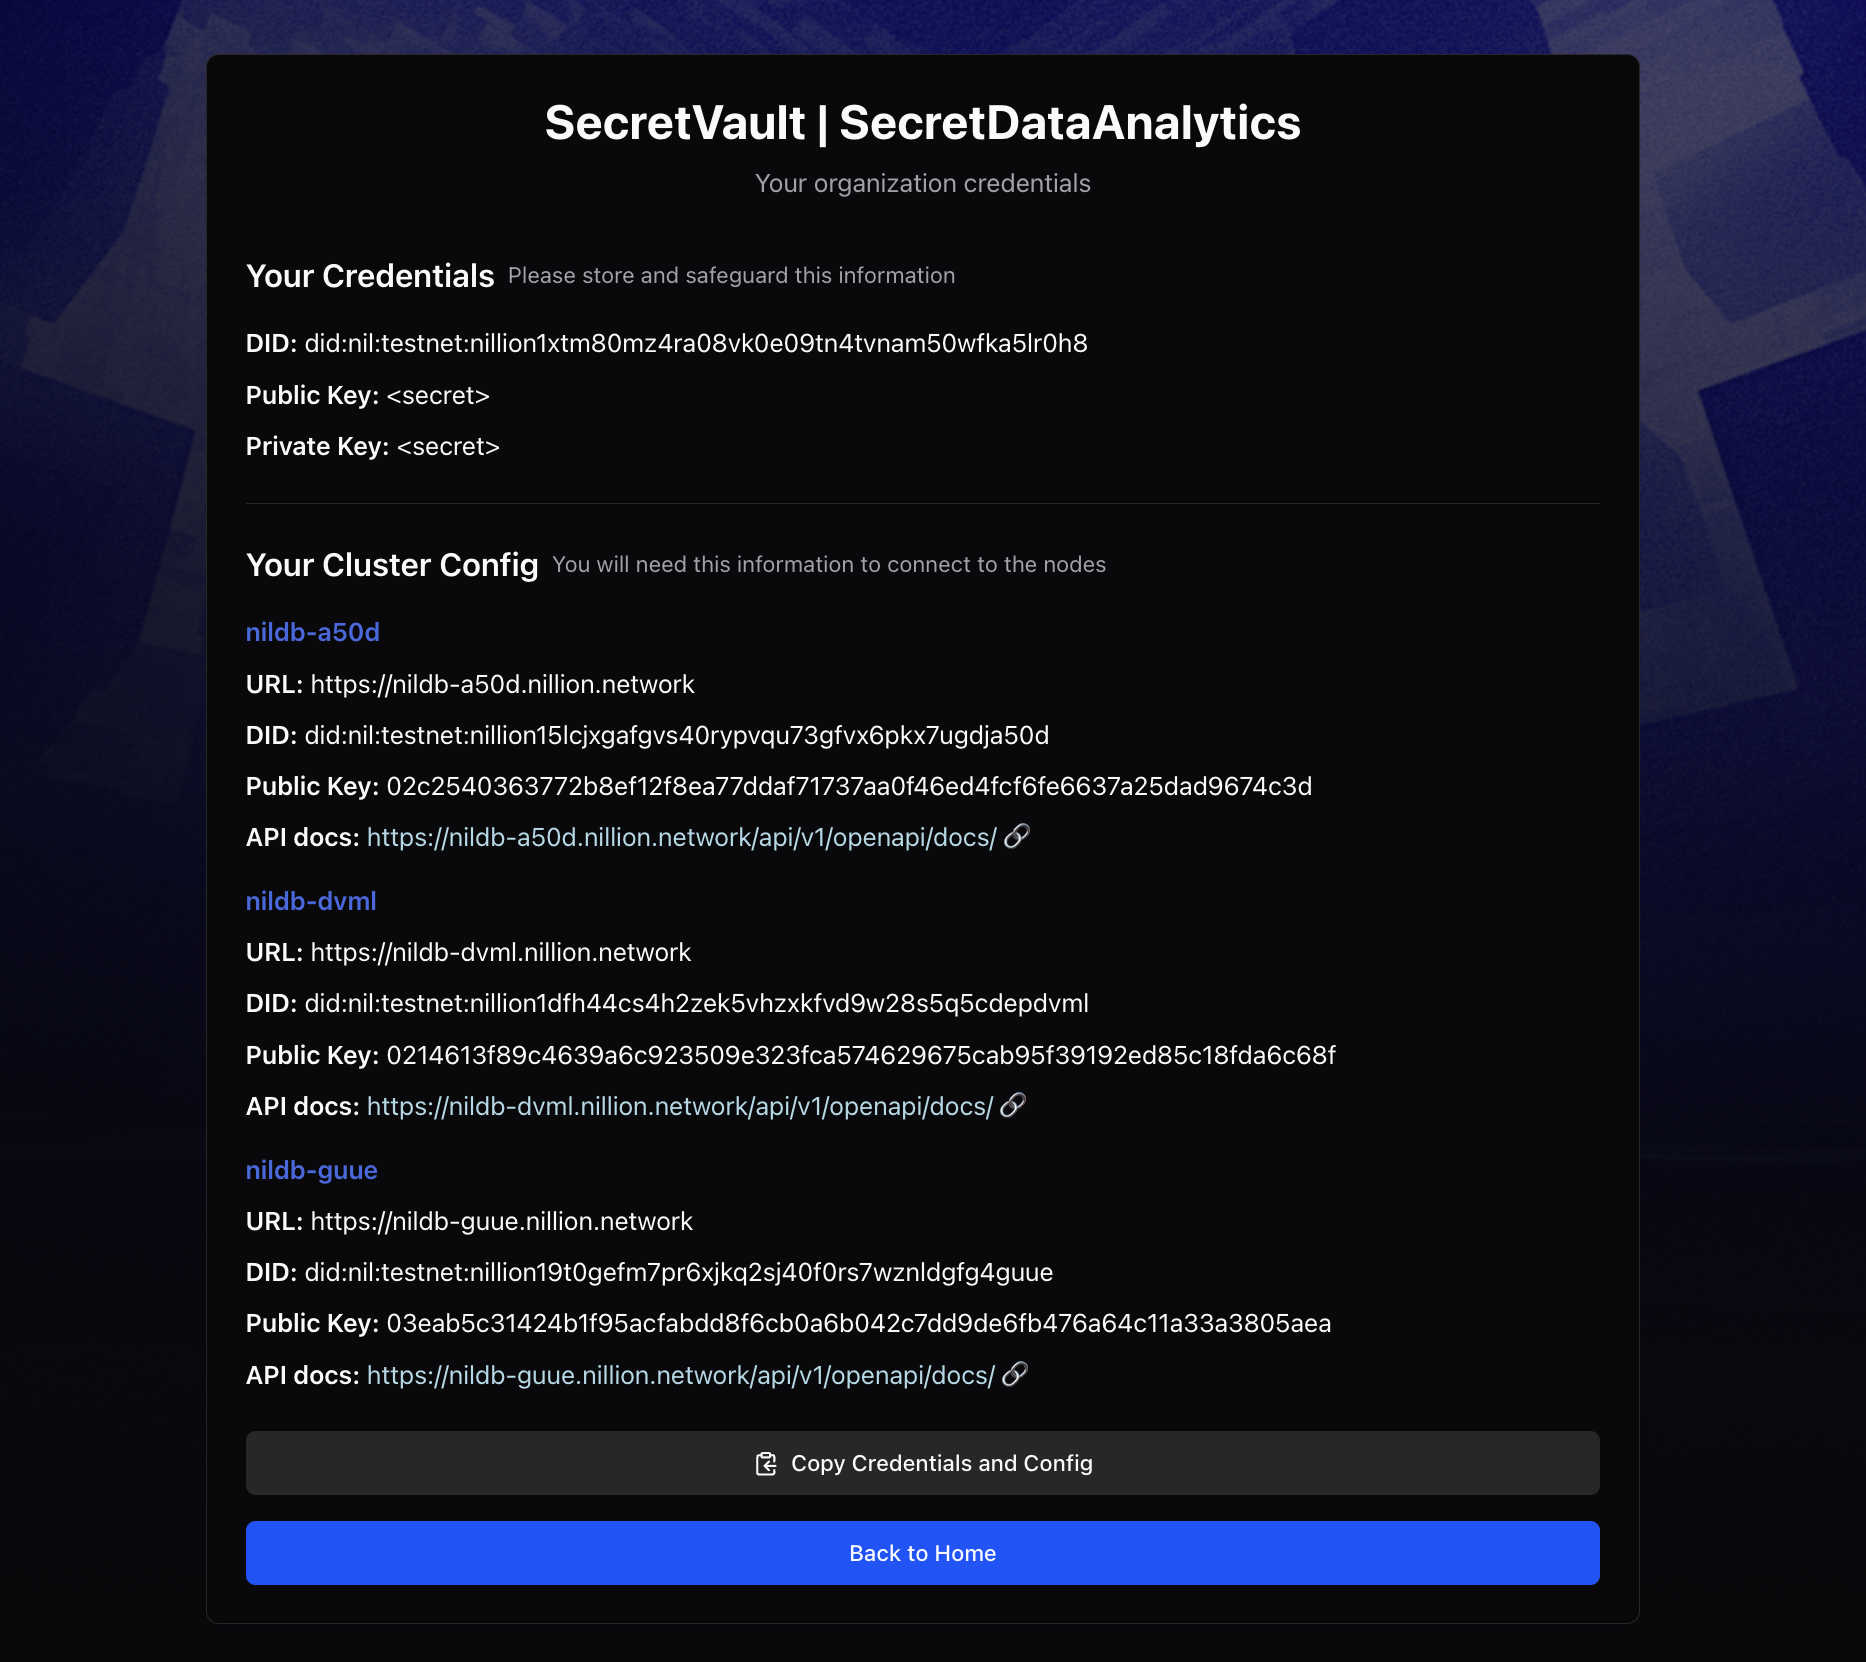
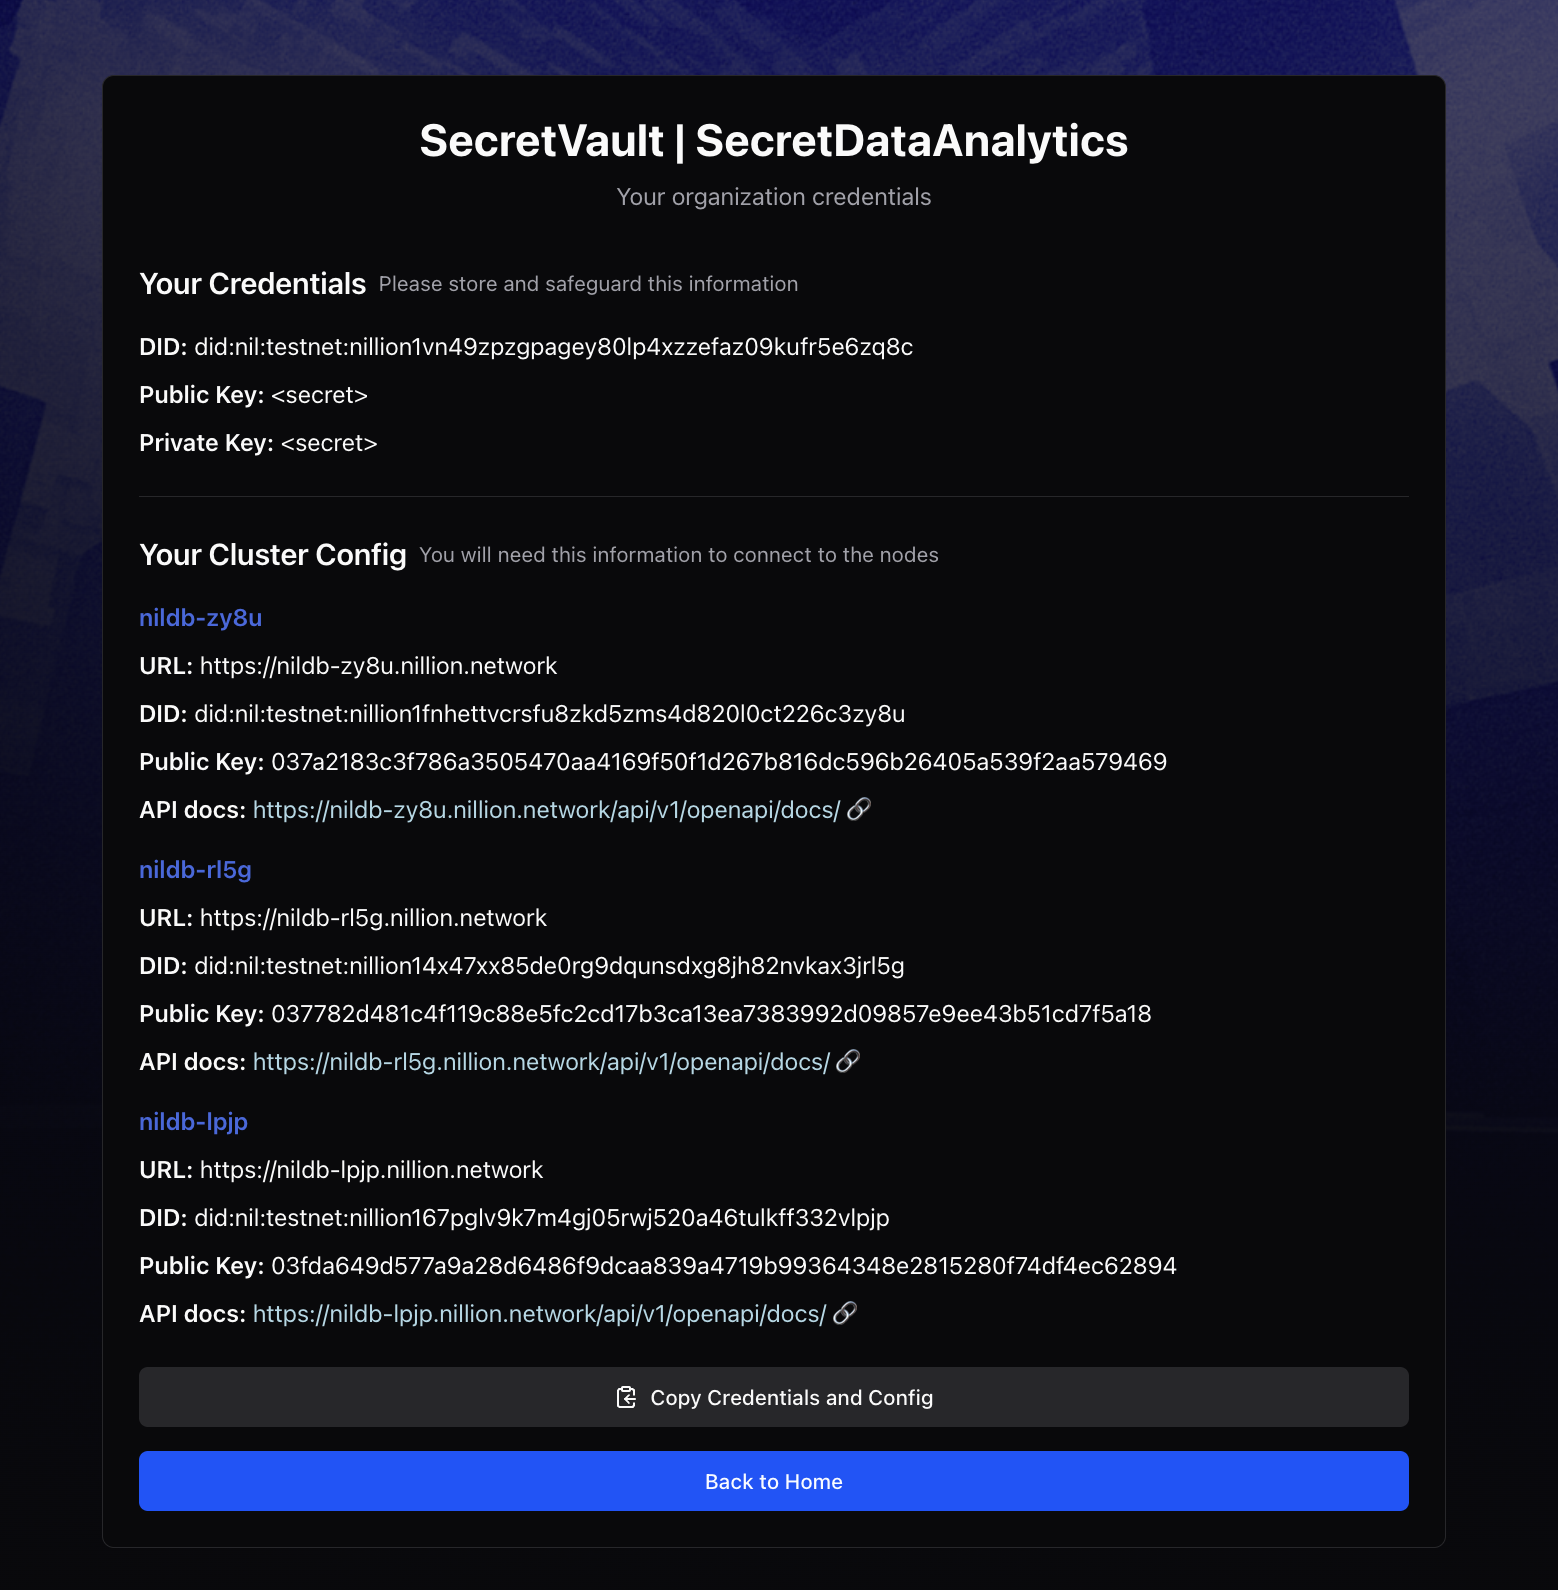
add quickstart

Changed region(s): [[0.0, 0.0, 1.0, 0.8321], [0.0616, 0.8629, 0.9243, 0.9553]]

diff --git a/docs/build/secret-vault-quickstart.md b/docs/build/secret-vault-quickstart.md
@@ -1,55 +1,81 @@
 # SecretVault Quickstart
 
-This guide helps you create a Node.js project that reads and writes data to a data collection in SecretVault. We'll build a web3 experience survey system where respondents' years of experience (the years_in_web3 field) is kept private through encryption, while other survey responses (question ratings) remain unencrypted in plaintext.
+In this 15-minute guide, you'll build a privacy-preserving Web3 experience survey using Node.js and SecretVault. The project will encrypt personal data (name and years_in_web3) while keeping survey ratings in plaintext.
+
+![Web3 Experience Survey](/img/survey.png)
 
 :::info
-While this guide uses JavaScript (Node.js) and the [nillion-sv-wrappers](https://github.com/NillionNetwork/nillion-sv-wrappers) package for simplicity, you can integrate SecretVault into any language by [using the nilDB APIs directly](/build/secret-vault#how-to-use-secretvault).
+This guide uses JavaScript (Node.js) and the [nillion-sv-wrappers](https://github.com/NillionNetwork/nillion-sv-wrappers) package for simplicity, but SecretVault can be integrated with any language [using the nilDB APIs directly](/build/secret-vault#how-to-use-secretvault).
 :::
+
+## Project Overview
+
+This quickstart will guide you through:
+
+1. Setting up a Node.js project from scratch and installing [nillion-sv-wrappers](https://github.com/NillionNetwork/nillion-sv-wrappers)
+2. Configuring SecretVault org access
+3. Creating a SecretVault Collection by uploading a schema
+4. Writing and reading encrypted survey data to the collection
+
+Your final project structure will be below. For a complete working version, check out the finished project in this [GitHub repo](https://github.com/oceans404/nillion-sv-example)
+
+```
+sv-quickstart/
+├── node_modules
+├── package-lock.json
+├── package.json          # Project dependencies
+├── nillionOrgConfig.js   # Nillion org credentials and node URLs
+├── postSchema.js         # Script for uploading a schema to create a collection
+└── index.js              # Main script that reads and writes to SecretVault
+```
 
 ### Prerequisites
 
 - Node.js (v18 or higher recommended)
 - npm (comes with Node.js)
 
-## Create Node.js Project
+## Build your project
 
-#### 1. Create and enter project directory for your SecretVault Quickstart
+### 1. Set up Node.js Project
 
-```
+#### Create and enter the project directory:
+
+```bash
 mkdir sv-quickstart
 cd sv-quickstart
 ```
 
-#### 2. Initialize npm project with type "module" and install dependencies:
+#### Initialize npm project with type "module" and install dependencies:
 
-- [nillion-sv-wrappers](https://github.com/NillionNetwork/nillion-sv-wrappers) is a JavaScript npm package with wrappers for simplifying usage of Nillion's Secret Vault and the nilQL encryption and decryption library.
-
-- uuid is used to generate unique ids for each record uploaded to SecretVault.
-
-```
+```bash
 npm init es6
 npm i nillion-sv-wrappers uuid
 ```
 
-## Setup SecretVault Config
+:::info
 
-#### 1. Create a Nillion organization configuration file
+- [nillion-sv-wrappers](https://github.com/NillionNetwork/nillion-sv-wrappers) is a JavaScript npm package with wrappers for simplifying usage of Nillion's Secret Vault and the nilQL encryption and decryption library.
 
-```
+- uuid is used to generate unique ids for each record uploaded to SecretVault.
+  :::
+
+### 2. Set your SecretVault Organization Config
+
+#### Create a Nillion organization configuration file
+
+```bash
 touch nillionOrgConfig.js
 ```
 
-#### 2. Fill in the organization configuration file
+#### Add the demo organization configuration:
 
-Normally we would [Register an Organization](/build/secretVault-secretDataAnalytics/access) to get org credentials and cluster configuration.
-
-For quickstart purposes, copy the this demo organization's credentials and cluster configuration including node urls and node did (decentralized identifiers) into your `nillionOrgConfig.js` file:
+For quickstart purposes, we've pre-registered an org you can use. Here are the organization's credentials and cluster configuration including node urls and node did (decentralized identifiers) to paste into your `nillionOrgConfig.js` file:
 
 <details>
 
-<summary>Copy this Demo Organization Config into nillionOrgConfig.js</summary>
+<summary>**Copy this Demo Organization Config into nillionOrgConfig.js**</summary>
 
-You can also look up cluster configuration values using the orgDid in the "Returning Org" section of the [SecretVault Organization Portal](https://secret-vault-registration.replit.app/).
+You can also look up cluster configuration values using the orgDid in the "Returning Org" section of the [SecretVault Registration Portal](https://sv-sda-registration.replit.app/).
 
 ```python reference showGithubLink
 https://github.com/oceans404/nillion-sv-example/blob/main/nillionOrgConfig.js
@@ -62,27 +88,24 @@ Now we have all the organization and cluster details needed to use SecretVault:
 - Organization Credentials: private key and did
 - Cluster configuration: Node API urls and Node DIDs for each node in the cluster
 
-## Check out the Collection's Schema
+### 3. Create Collection Schema
 
-For this quickstart, we'll read and write data to a pre-defined collection with a "Web3 Experience Survey" schema in the demo org. (To create your own schema later, see the [Define a Collection](/build/secretVault-secretDataAnalytics/create-schema) guide.)
+#### Create a schema.json file:
 
-The schemaId for the "Web3 Experience Survey" Schema is
-
-```
-53f9e1de-e0a3-46ab-86c6-3fd380ad8877
+```bash
+touch schema.json
 ```
 
-Note that this schema id is specific to the organization: `did:nil:testnet:nillion1xtm80mz4ra08vk0e09tn4tvnam50wfka5lr0h8` and can't be used by other organizations.
+Add the "Web3 Experience Survey" schema within schema.json. The schema definition specifies the data structure of any record uploaded to the collection:
 
-Key points about this schema:
-
-- Every survey response requires a unique UUID
-- years_in_web3 is defined as a string because it will store encrypted data shares
-- responses array holds unencrypted survey ratings, with each rating being 1-5
+- Every survey response requires a unique `_id`
+- `name` is an encrypted field that stores data shares
+- `years_in_web3` is also encrypted and follows the same structure
+- `responses` array holds unencrypted survey ratings, with each rating being 1-5
 
 <details>
 
-<summary>Check out the Schema: Web3 Experience Survey</summary>
+<summary>**Copy this Web3 Experience Survey schema into schema.json:**</summary>
 
 ```js reference showGithubLink
 https://github.com/oceans404/nillion-sv-example/blob/main/schema.json
@@ -90,7 +113,31 @@ https://github.com/oceans404/nillion-sv-example/blob/main/schema.json
 
 </details>
 
-## Write Main Script for Writing to SecretVault
+#### Create the upload schema script:
+
+```bash
+touch postSchema.js
+```
+
+<details>
+
+<summary>**Copy this script that creates your collection schema into postSchema.js:**</summary>
+
+```js reference showGithubLink
+https://github.com/oceans404/nillion-sv-example/blob/main/postSchema.js
+```
+
+</details>
+
+#### Run the upload schema script to create a schema collection:
+
+```bash
+node postSchema.js
+```
+
+Save the Schema ID from the output - you'll need it for writing and reading data to your collection in the next step.
+
+### 4. Interact with SecretVault Data
 
 #### 1. Create a main script file
 
@@ -103,9 +150,11 @@ touch index.js
 ```
 sv-quickstart/
 ├── node_modules
-├── package.json          # Project dependencies and config
-├── nillionOrgConfig.js   # Nillion credentials and node URLs
-└── index.js              # Main script
+├── package-lock.json
+├── package.json
+├── nillionOrgConfig.js
+├── postSchema.js
+└── index.js
 ```
 </details>
 
@@ -117,50 +166,38 @@ import { v4 as uuidv4 } from 'uuid';
 import { orgConfig } from './nillionOrgConfig.js';
 ```
 
-#### 3. Add the Collection Configuration
+#### 3. Add your Collection's Schema ID
 
-This specifies the schema id for the schema and the names of any fields that need to be encrypted by nilQL ahead of being stored in SecretVault.
-
-```
-// Collection Configuration
-const collectionConfig = {
-  schemaId: '53f9e1de-e0a3-46ab-86c6-3fd380ad8877',
-  encryptedFields: ['years_in_web3'],
-};
+```javascript
+const SCHEMA_ID = 'YOUR_SCHEMA_ID';
 ```
 
-#### 3. Create a payload of Web3 Experience Survey to store
+#### 4. Create a payload of 1 or more Web3 Experience Survey data records to store
 
-```
-// Web3 Experience Survey Data
+Mark the name and years_in_web3 fields with `$allot` to signal to nilQL that these are fields that need to be encrypted to shares before being stored in SecretVault. The nillion-sv-wrappers package will transform data marked $allot into encrypted $share properties before upload to SecretVault.
+
+```javascript
 const data = [
   {
     _id: uuidv4(),
-    years_in_web3: 5,
+    name: { $allot: 'Vitalik Buterin' }, // will be encrypted to a $share
+    years_in_web3: { $allot: 8 }, // will be encrypted to a $share
     responses: [
       { rating: 5, question_number: 1 },
       { rating: 3, question_number: 2 },
     ],
   },
-  {
-    _id: uuidv4(),
-    years_in_web3: 1,
-    responses: [
-      { rating: 2, question_number: 1 },
-      { rating: 4, question_number: 2 },
-    ],
-  },
 ];
 ```
 
-#### 4. Write the main function
+#### 5. Write the main function
 
 - Initialize wrapper with nodes and credentials
 - Write data to nodes, encrypting the years_in_web3 with nilQL ahead of time
 - Read data from all nodes and recombine shares to decrypt the years_in_web3 field
 
 ```js reference showGithubLink
-https://github.com/oceans404/nillion-sv-example/blob/main/index.js#L34-L70
+https://github.com/oceans404/nillion-sv-example/blob/main/index.js#L33-L70
 ```
 
 #### 5. Run the script
@@ -187,5 +224,7 @@ You should see output showing:
 
 Great work! Now that you've successfully written and read encrypted data from SecretVault, explore:
 
-- Registering your own organization
-- Defining custom collections
+- [Registering your own organization](/build/secretVault-secretDataAnalytics/access)
+- [Creating custom collection schemas](/build/secretVault-secretDataAnalytics/create-schema)
+- [Storing new records](/build/secretVault-secretDataAnalytics/upload)
+- [Retrieving filtered records](/build/secretVault-secretDataAnalytics/retrieve)

diff --git a/docs/build/secretVault-secretDataAnalytics/access.md b/docs/build/secretVault-secretDataAnalytics/access.md
@@ -1,20 +1,57 @@
 # Register an Organization
 
-Following this guide will register your organization in our public/demo node cluster. If you're interested in more options, please fill in this [form](https://forms.gle/Um3xLwMKyKPyAP9i6).
+:::info
+When using the [SecretVault Registration Portal](https://sv-sda-registration.replit.app/) to create your org, it will use the public demo node cluster. you'll be using the public demo node cluster by default. For production usage, please complete our [access form](https://forms.gle/Um3xLwMKyKPyAP9i6) to request allowlist access to the testnet node cluster.
+:::
 
 ### Create an Organization
 
-Use the [SecretVault Organization Portal](https://secret-vault-registration.replit.app/) to get started by registering an organization, your root entity in SecretVault. Choose a name for your org and select the nilDB nodes you'd like your org to use.
+Use the [SecretVault Registration Portal](https://sv-sda-registration.replit.app/) to get started by registering an organization, your root entity in SecretVault.
 
-![SecretVault Organization Portal](/img/sv-org-portal.png)
+1. Access the SecretVault Registration Portal
+2. Register your organization by providing a name
+3. Select your preferred nilDB nodes - this defaults to the cluster config of demo nodes
+
+![SecretVault Registration Portal](/img/sv-org-portal.png)
 
 ### Store your Organization's credentials
 
-After creating an organization, you will see a page that has
+After registration, you'll receive:
 
-- your org's credentials including an org DID and org public/private key pair
-- your org's cluster config for selected nodes
+- Organization credentials (your organization's DID and public/private key pair)
+- Cluster configuration for your selected nodes
 
-Make sure to copy the credentials and cluster to config to a secure place. **You are solely responsible for keeping your credentials safe and available.** We will not be able to retrieve/regenerate organization credentials for you, and you will not be able to access data within SecretVault without these credentials.
+**Important: Copy these credentials and store them securely. Your organization credentials cannot be retrieved or regenerated, and you won't be able to access your SecretVault data without them.** If you select "Returning Organization" from the portal, you will only be able to see the cluster configuration details for your organization by DID.
 
-![SecretVault Organization Config](/img/sv-org-config.png)
+    ![SecretVault Organization Config](/img/sv-org-config.png)
+
+## Public Demo Node Cluster Configuration
+
+The following nodes are available in the public demo cluster configuration. Each node provides its connection details and a Swagger UI (API docs) where you can explore and test the node's API endpoints.
+
+### Demo node 1: [nildb-zy8u](https://nildb-zy8u.nillion.network/api/v1/openapi/docs/)
+
+```
+URL: https://nildb-zy8u.nillion.network
+DID: did:nil:testnet:nillion1fnhettvcrsfu8zkd5zms4d820l0ct226c3zy8u
+Public Key: 037a2183c3f786a3505470aa4169f50f1d267b816dc596b26405a539f2aa579469
+API docs: https://nildb-zy8u.nillion.network/api/v1/openapi/docs/
+```
+
+### Demo node 2: [nildb-rl5g](https://nildb-rl5g.nillion.network/api/v1/openapi/docs/)
+
+```
+URL: https://nildb-rl5g.nillion.network
+DID: did:nil:testnet:nillion14x47xx85de0rg9dqunsdxg8jh82nvkax3jrl5g
+Public Key: 037782d481c4f119c88e5fc2cd17b3ca13ea7383992d09857e9ee43b51cd7f5a18
+API docs: https://nildb-rl5g.nillion.network/api/v1/openapi/docs/
+```
+
+### Demo node 3: [nildb-lpjp](https://nildb-lpjp.nillion.network/api/v1/openapi/docs/)
+
+```
+URL: https://nildb-lpjp.nillion.network
+DID: did:nil:testnet:nillion167pglv9k7m4gj05rwj520a46tulkff332vlpjp
+Public Key: 03fda649d577a9a28d6486f9dcaa839a4719b99364348e2815280f74df4ec62894
+API docs: https://nildb-lpjp.nillion.network/api/v1/openapi/docs/
+```

diff --git a/docs/build/secretVault-secretDataAnalytics/build.md b/docs/build/secretVault-secretDataAnalytics/build.md
@@ -1,5 +1,5 @@
 # Build with Secret Vault APIs
 
-![SecretVault Organization Portal](/img/sv-sda-flow.jpg)
+![SecretVault Registration Portal](/img/sv-sda-flow.jpg)
 
 
